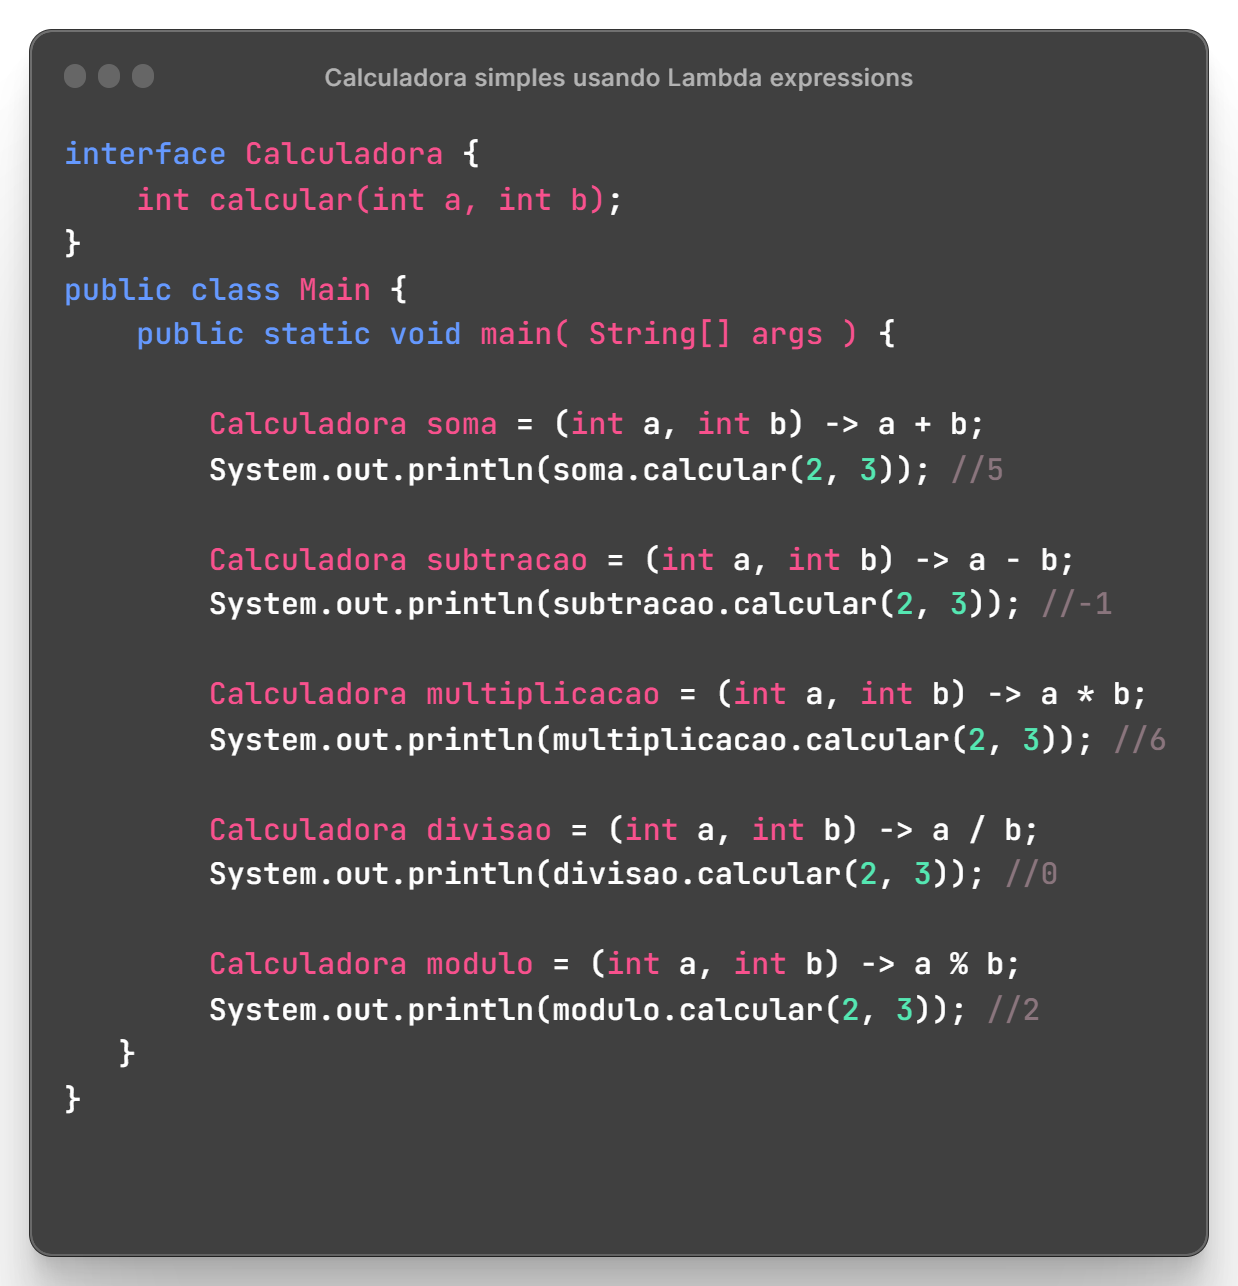
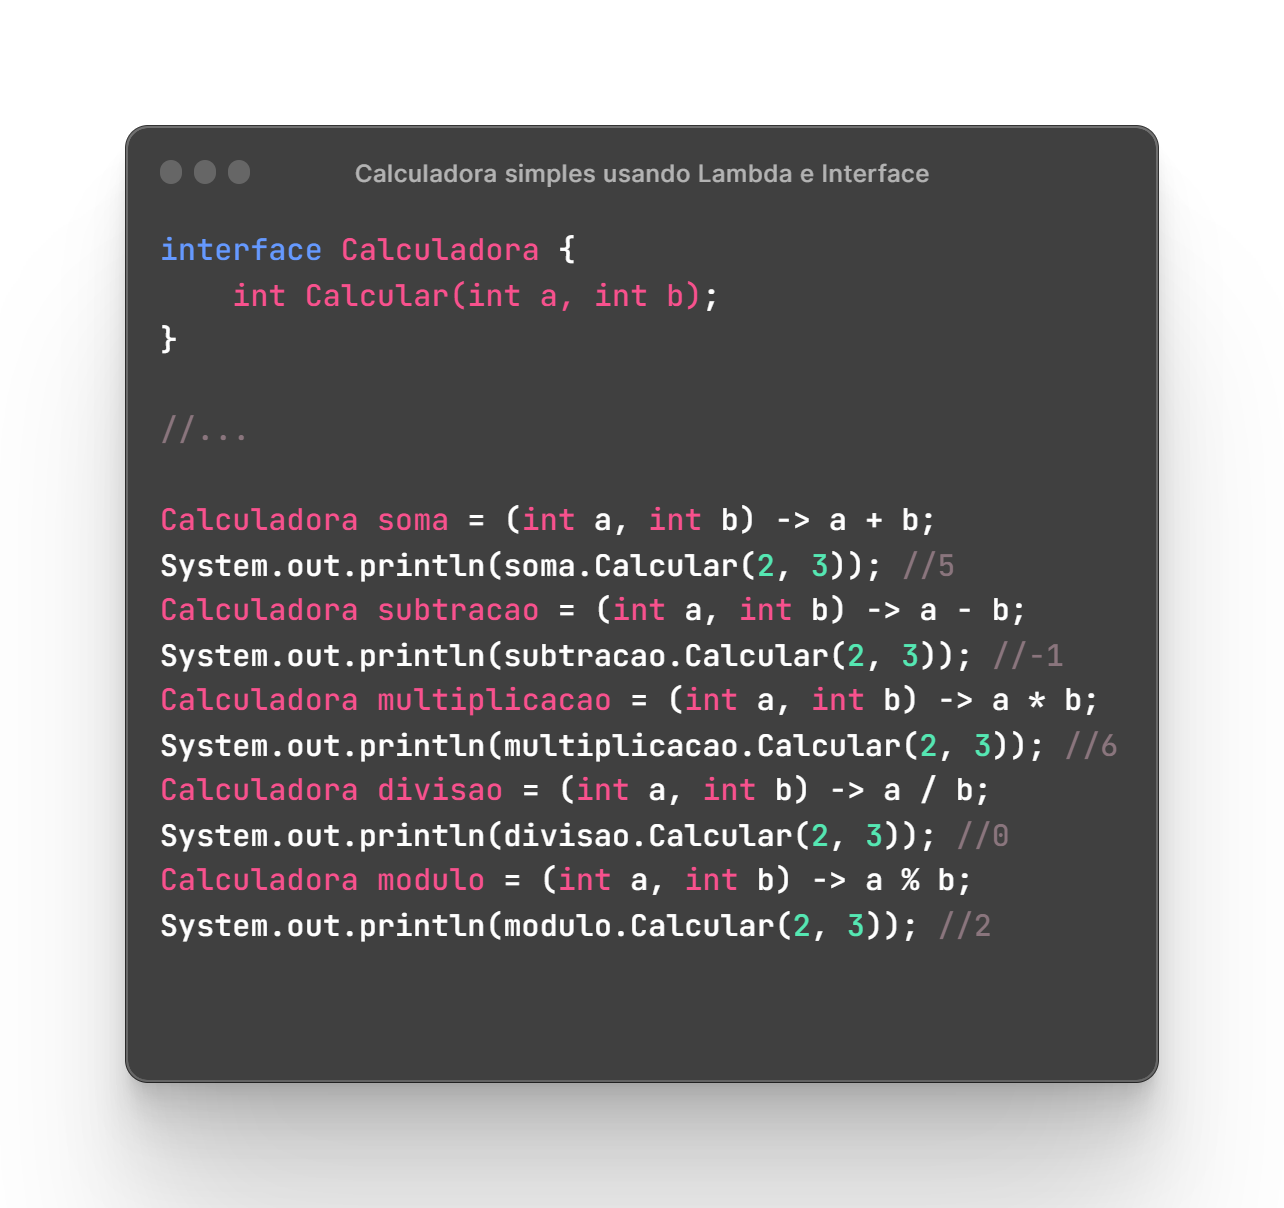
Update README and method uppercases

diff --git a/src/main/java/org/example/Main.java b/src/main/java/org/example/Main.java
@@ -4,7 +4,7 @@ import java.util.stream.Collectors;
 
 
 interface Calculadora {
-    int calcular(int a, int b);
+    int Calcular(int a, int b);
 }
 public class Main {
     public static void main( String[] args ) {
@@ -78,15 +78,15 @@ public class Main {
          */
 
         Calculadora soma = (int a, int b) -> a + b;
-        System.out.println(soma.calcular(2, 3)); //5
+        System.out.println(soma.Calcular(2, 3)); //5
         Calculadora subtracao = (int a, int b) -> a - b;
-        System.out.println(subtracao.calcular(2, 3)); //-1
+        System.out.println(subtracao.Calcular(2, 3)); //-1
         Calculadora multiplicacao = (int a, int b) -> a * b;
-        System.out.println(multiplicacao.calcular(2, 3)); //6
+        System.out.println(multiplicacao.Calcular(2, 3)); //6
         Calculadora divisao = (int a, int b) -> a / b;
-        System.out.println(divisao.calcular(2, 3)); //0
+        System.out.println(divisao.Calcular(2, 3)); //0
         Calculadora modulo = (int a, int b) -> a % b;
-        System.out.println(modulo.calcular(2, 3)); //2
+        System.out.println(modulo.Calcular(2, 3)); //2
 
         //example of collection with arraylist using lambda expression
         ArrayList<Integer> numbers3 = new ArrayList<>();

diff --git a/README.md b/README.md
@@ -56,7 +56,11 @@ Esses são apenas alguns exemplos dos métodos fornecidos pela classe `Collectio
     $\color{yellow}\sf Arrays$ é uma classe utilitária do Java com métodos prontos para lidar com vetores de diferentes tipos.
     No exemplo passado, o método $\color{orange}\sf asList()$ transforma qualquer valor passado em uma lista de valores.
     <br>
-    $$\sf \color{yellow}List\color{white}<\color{red}Integer\color{white}>\space numeros\space = \color{yellow}Arrays\color{white}.\color{orange}asList\color{white}(\color{lightblue}1,2,3,4,5,6,7);$$
+    <table align="center">
+    <tr>
+        <td><img src="images/collections-arrays.png" width="600"></td>
+    </tr>
+    </table>
     <br>
     Utilizamos o método $\sf \color{orange}stream()$ da classe <code>java.util.Collection</code> em Java, que retorna um fluxo (stream) de elementos presentes na coleção. O stream é uma sequência de elementos que pode ser manipulada e processada de forma funcional e declarativa.
     <br>
@@ -69,8 +73,14 @@ Esses são apenas alguns exemplos dos métodos fornecidos pela classe `Collectio
     Nessa operação de agragação usamos O $\sf\color{orange}Collectors$ é uma classe utilitária do Java <code>Streams API</code> que fornece diversos coletores pré-definidos para realizar operações de agregação em streams. Esses coletores são usados em conjunto com o método collect() para coletar os elementos de um stream em uma forma desejada, como uma lista, um conjunto, um mapa, entre outros.
     Transformamos todos os dados em uma lista usando o método $\sf\color{orange}toList()$
     <br>
-    $$\sf \color{yellow}List\color{white}<\color{red}Integer\color{white}>\space numerosPares = numeros.\color{yellow}stream().\color{orange}filter\color{white}(n -> n \% 2 == 0).\color{orange}collect\color{white}(\color{orange}Collectors.\color{white}toList()\color{white});$$
-
+    <table align="center">
+    <tr>
+        <td><img src="images/collections-stream.png" width="600"></td>
+    </tr>
+    </table>
+    Para imprimir todos os valores, não precisa criar todo um for complexo sem necessidade, para isso podemos usar um for simplificado chamado $\color{yellow}foreach$ imprimindo cada elemento da coleção utilizando **sintaxe de referência de método**.
+    <br>
+    $\color{yellow}System.out::println$: É uma sintaxe de referência de método que representa o método `println` da classe `System.out`. Neste caso, estamos usando a referência de método para a função println sem passar explicitamente um argumento. Isso significa que cada elemento da coleção será passado automaticamente como argumento para o método `println, que é responsável por imprimir o valor no console.
 </details>
 
 ---
@@ -84,3 +94,26 @@ Uma interface com lambda em Java refere-se ao uso de uma expressão lambda para 
         <td><img src="images/calculator-lambda.png" width="600"></td>
     </tr>
 </table>
+
+<summary>Detalhes sobre o código</summary>
+<details>
+    Uma $\sf \color{yellow}interface$ em Java é uma estrutura que define um conjunto de métodos e constantes que as classes podem implementar. Ela permite definir um contrato que as classes devem seguir ao implementar a interface.
+    <br>   
+    Foi criado dentro da interface um método somente declarado, chamado `Calcular()` que recebe dois inteiros como atributos.
+    <br>
+    <table align="center">
+    <tr>
+        <td><img src="images/calculator-interface.png" width="600"></td>
+    </tr>
+    </table>
+    <br>
+    Agora com essa estrutura, podemos criar definições para o que o método `Calcular` vai fazer em cada utilização da interface.
+    <br>
+    Podemos por exemplo criar uma utilização da interface que vai fazer uma soma com os valores dos tributos recebidos:
+    <table align="center">
+    <tr>
+        <td><img src="images/calculator-sum.png" width="600"></td>
+    </tr>
+    </table>
+    Com isso podemos criar o sistema de calcular possiveis de uma calculadora, só criar uma chamada da interface e trazer dois valores utilizando lambdas
+</details>
